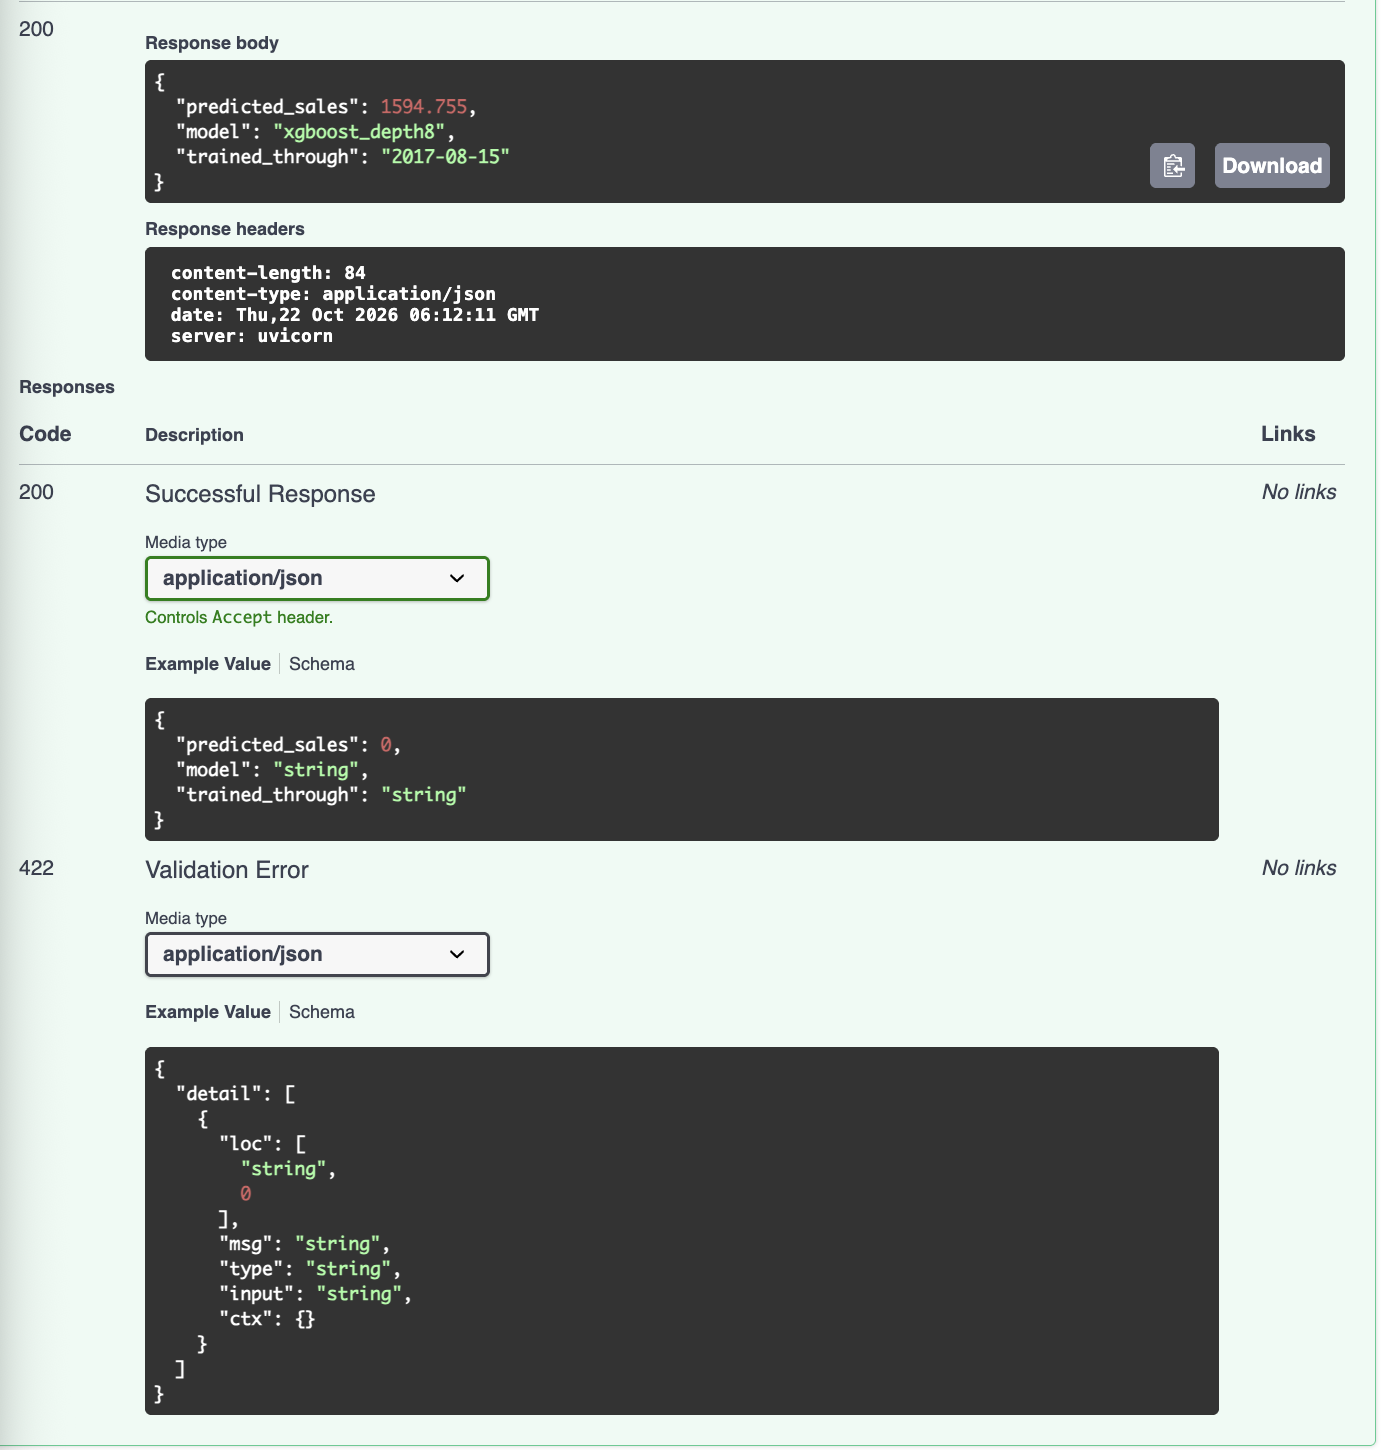
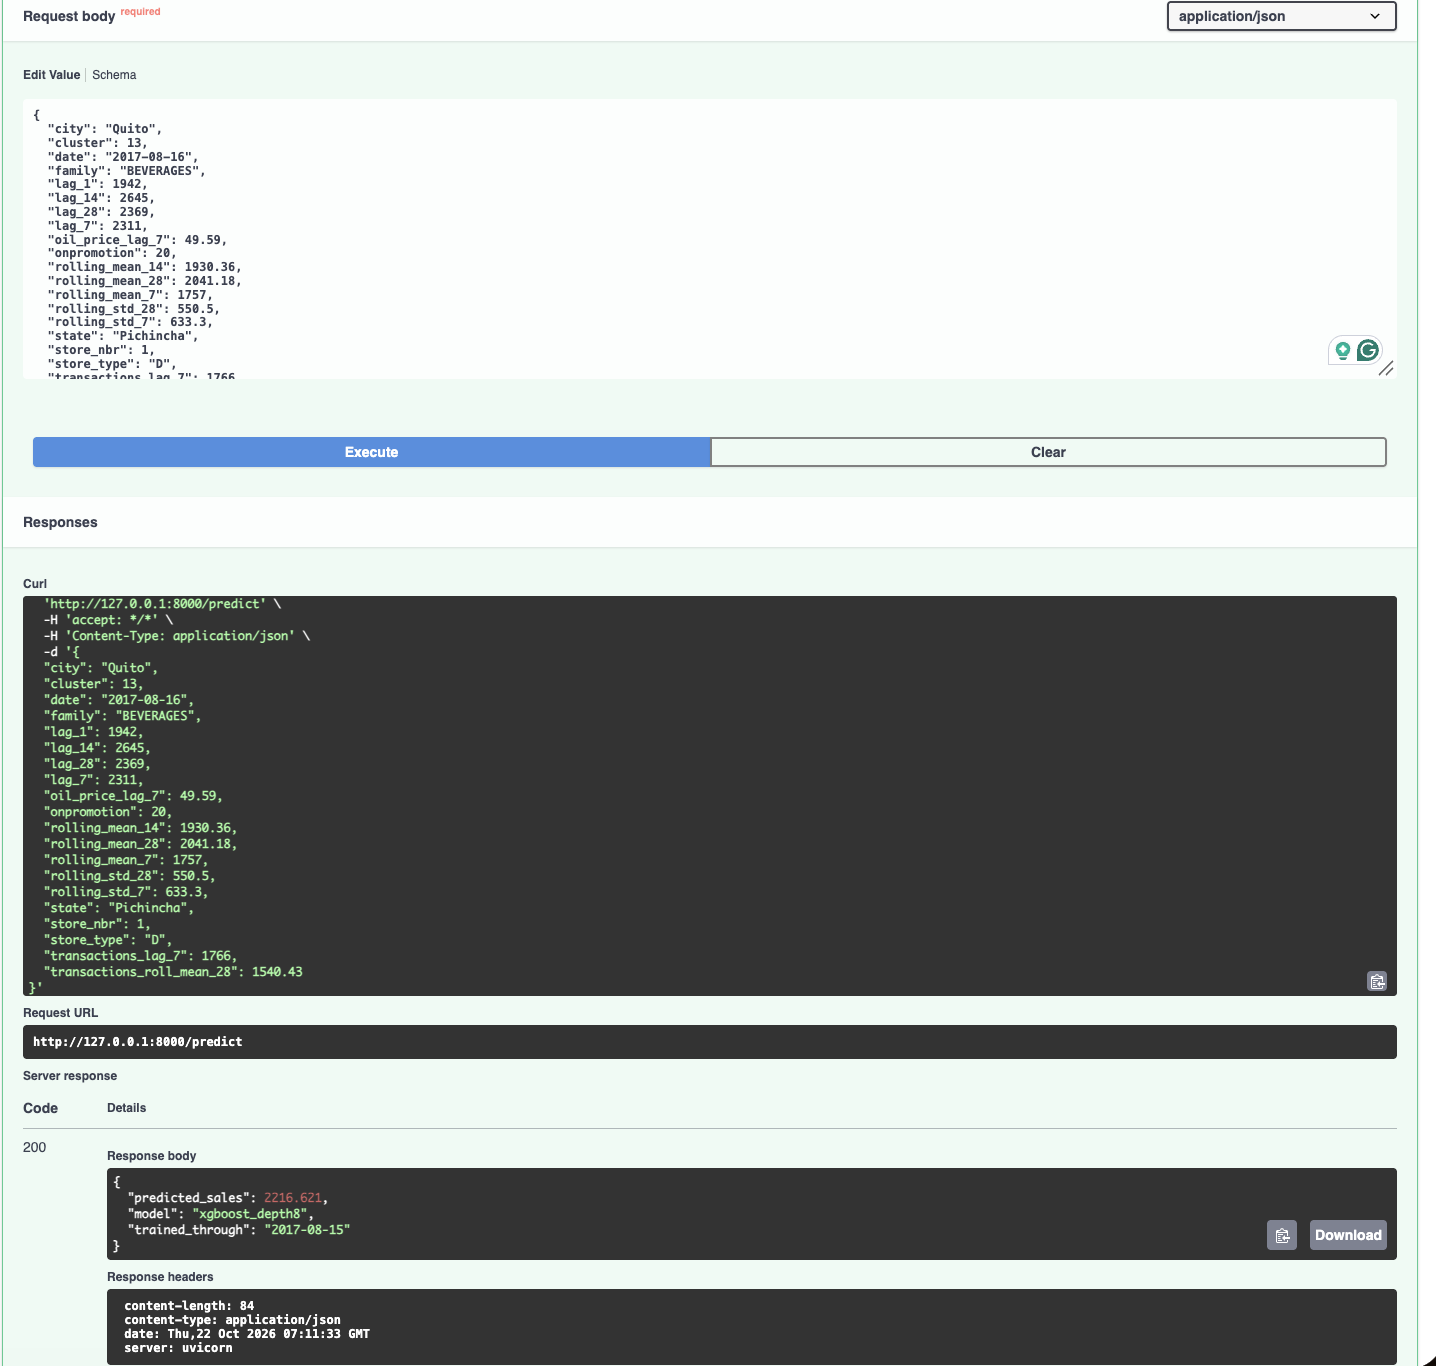
API: require lagged transactions and oil inputs, realistic example, update screenshot

diff --git a/tests/test_training_forecast_api.py b/tests/test_training_forecast_api.py
@@ -127,7 +127,7 @@ def test_api_predict_and_health(experiment, tmp_path, monkeypatch):
     importlib.reload(api_main)
     payload = {"date": "2017-08-16", "store_nbr": 1, "family": "BEVERAGES", "lag_1": 30, "lag_7": 31, "lag_14": 29,
                "lag_28": 32, "rolling_mean_7": 30, "rolling_mean_14": 30, "rolling_mean_28": 30,
-               "onpromotion": 3, "city": "Quito", "state": "Pichincha", "store_type": "A", "cluster": 1}
+               "onpromotion": 3, "transactions_lag_7": 1500, "transactions_roll_mean_28": 1500, "oil_price_lag_7": 50, "city": "Quito", "state": "Pichincha", "store_type": "A", "cluster": 1}
     with TestClient(api_main.app) as client:
         h = client.get("/health").json()
         assert h["status"] == "ok" and h["model_loaded"] is True
@@ -135,6 +135,8 @@ def test_api_predict_and_health(experiment, tmp_path, monkeypatch):
         assert r.status_code == 200 and r.json()["predicted_sales"] >= 0
         bad = client.post("/predict", json={**payload, "lag_1": -5})
         assert bad.status_code == 422
+        missing = {k: v for k, v in payload.items() if k != "transactions_lag_7"}
+        assert client.post("/predict", json=missing).status_code == 422   # required field
         assert client.get("/forecasts").status_code == 404           # no forecast file in tmp
 
 
@@ -148,5 +150,5 @@ def test_api_without_model_returns_503(tmp_path, monkeypatch):
         assert client.get("/health").json()["model_loaded"] is False
         r = client.post("/predict", json={"date": "2017-08-16", "store_nbr": 1, "family": "X", "lag_1": 1, "lag_7": 1,
                                           "lag_14": 1, "lag_28": 1, "rolling_mean_7": 1, "rolling_mean_14": 1,
-                                          "rolling_mean_28": 1})
+                                          "rolling_mean_28": 1, "transactions_lag_7": 1, "transactions_roll_mean_28": 1, "oil_price_lag_7": 1})
         assert r.status_code == 503

diff --git a/src/api/main.py b/src/api/main.py
@@ -55,9 +55,10 @@ app = FastAPI(title="Retail Demand Forecasting API", version="1.0.0", lifespan=l
 
 class PredictRequest(BaseModel):
     model_config = ConfigDict(json_schema_extra={"example": {
-        "date": "2017-08-16", "store_nbr": 1, "family": "BEVERAGES", "lag_1": 108, "lag_7": 120, "lag_14": 112,
-        "lag_28": 115, "rolling_mean_7": 113.4, "rolling_mean_14": 112.0, "rolling_mean_28": 109.7,
-        "rolling_std_7": 9.5, "rolling_std_28": 11.2, "onpromotion": 12,
+        "date": "2017-08-16", "store_nbr": 1, "family": "BEVERAGES", "lag_1": 1942, "lag_7": 2311, "lag_14": 2645,
+        "lag_28": 2369, "rolling_mean_7": 1757.0, "rolling_mean_14": 1930.36, "rolling_mean_28": 2041.18,
+        "rolling_std_7": 633.3, "rolling_std_28": 550.5, "onpromotion": 20,
+        "transactions_lag_7": 1766, "transactions_roll_mean_28": 1540.43, "oil_price_lag_7": 49.59,
         "city": "Quito", "state": "Pichincha", "store_type": "D", "cluster": 13}})
 
     date: date
@@ -73,9 +74,9 @@ class PredictRequest(BaseModel):
     rolling_std_7: float | None = Field(default=None, ge=0)
     rolling_std_28: float | None = Field(default=None, ge=0)
     onpromotion: float = Field(default=0, ge=0)
-    transactions_lag_7: float | None = None
-    transactions_roll_mean_28: float | None = None
-    oil_price_lag_7: float | None = None
+    transactions_lag_7: float = Field(ge=0)
+    transactions_roll_mean_28: float = Field(ge=0)
+    oil_price_lag_7: float = Field(ge=0)
     is_holiday: int = Field(default=0, ge=0, le=1)
     is_national_holiday: int = Field(default=0, ge=0, le=1)
     is_regional_holiday: int = Field(default=0, ge=0, le=1)

diff --git a/README.md b/README.md
@@ -134,7 +134,7 @@ All runs are tracked in MLflow on Databricks. The champion (refit on all history
 ![MLflow run comparison](docs/mlflow_comparison.png)
 
 ## API
-The champion model is served with FastAPI. Example `POST /predict` call (illustrative input values; the real 7-day forecasts are in `forecasts.csv`):
+The champion model is served with FastAPI. Example `POST /predict` call for store 1, BEVERAGES on 2017-08-16, using real feature values (the result matches the batch forecast). The lagged transactions and oil fields are required, because leaving them out changed the prediction by about 20% in testing. The stored 7-day forecasts are in `forecasts.csv`:
 
 ![FastAPI predict endpoint](docs/api_predict.png)
 
